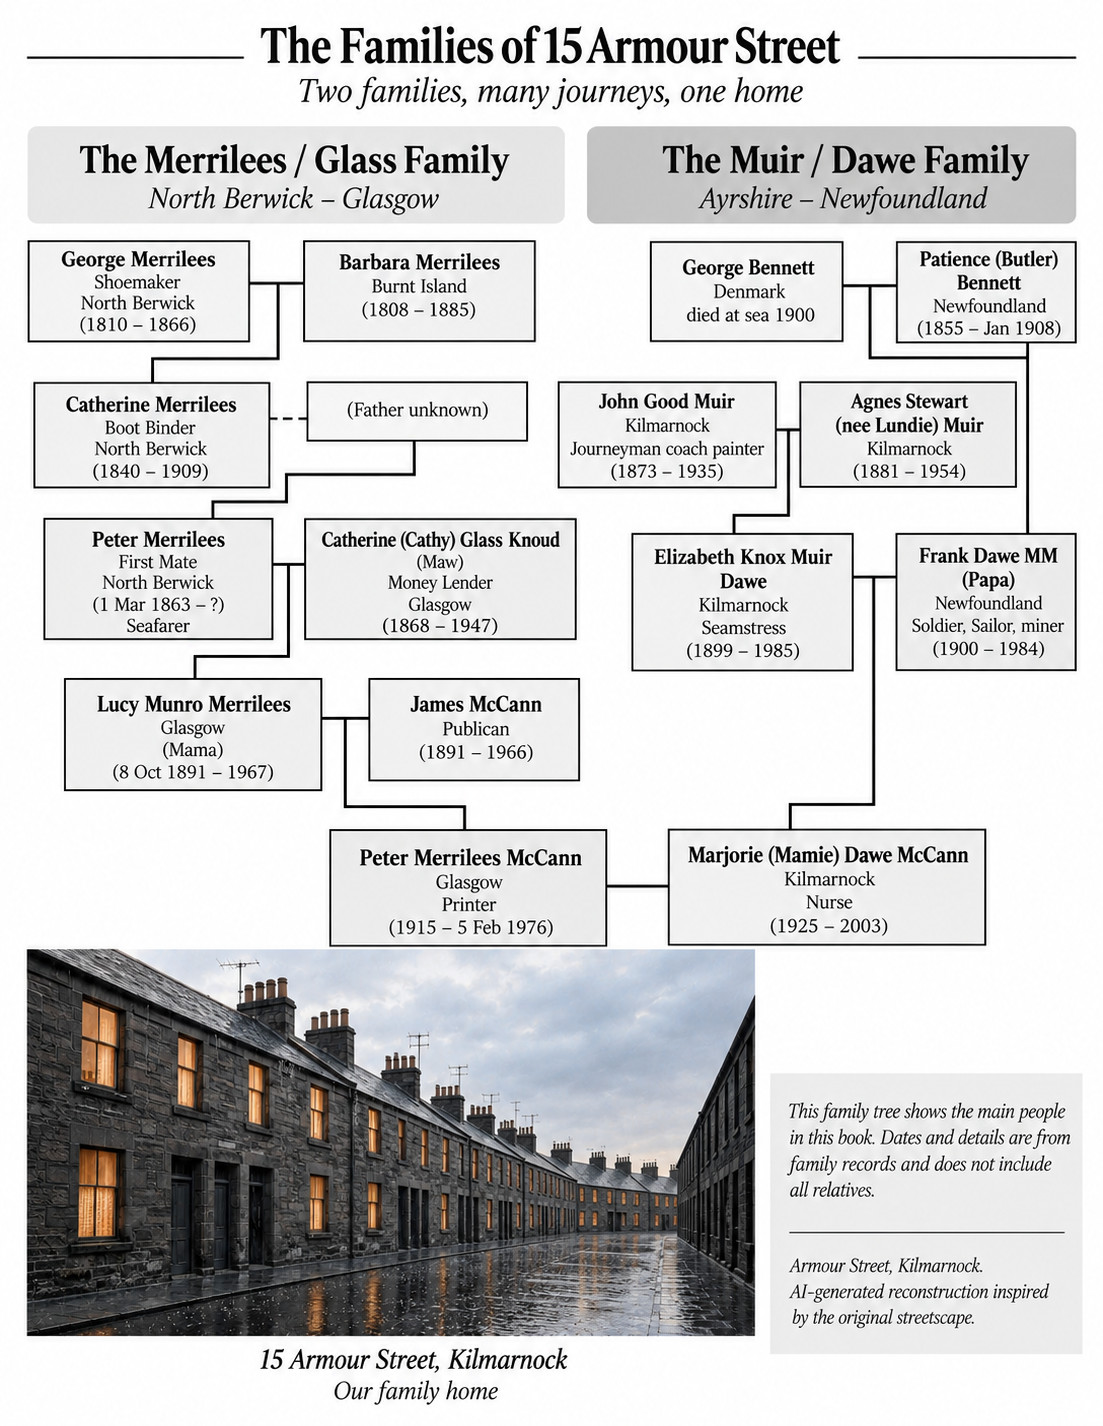
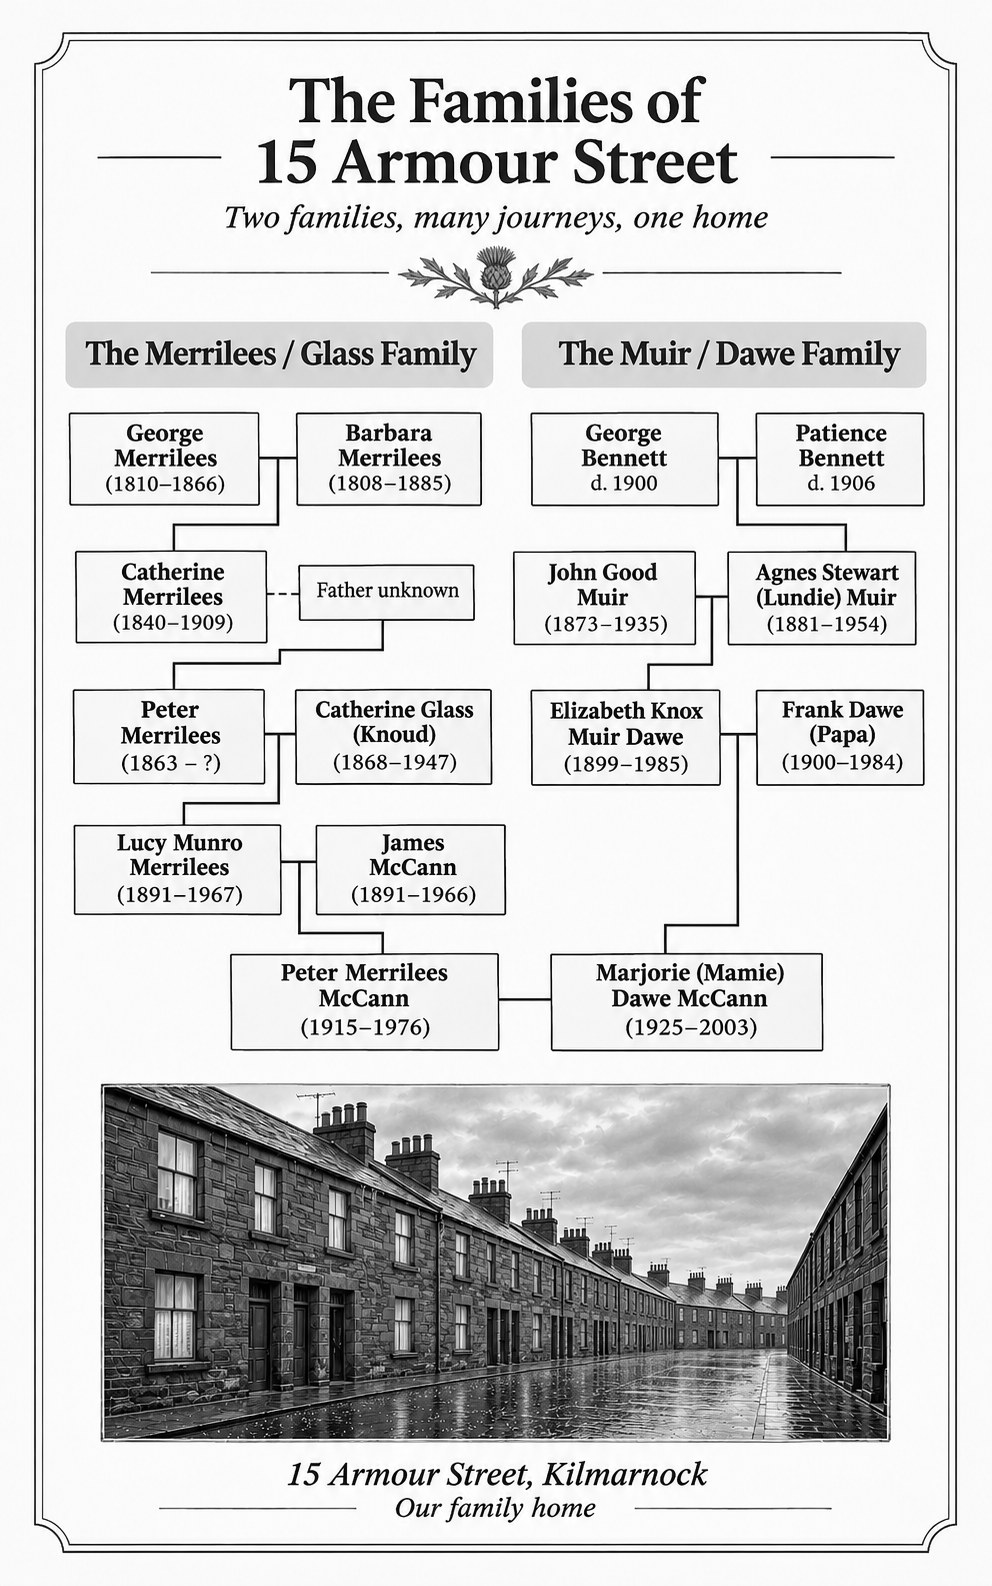
Task 3: Research Journey: replace family tree graphic with Julie's corrected copy and rebuild its text list (Pass 20)

diff --git a/research-journey/index.html b/research-journey/index.html
@@ -56,30 +56,30 @@
 
         <!-- [ Julie to supply short intro for the Research Journey page ] -->
 
-        <!-- EDIT HERE: The Families of 15 Armour Street (Julie's family tree graphic, supplied 7 Nov 2026; the graphic carries its own title, so there is no heading here) -->
-        <!-- [ Julie to confirm: this version shows Elizabeth Knox Muir Dawe as 1899–1985 and Frank Dawe MM as 1900–1984; her earlier tree showed 1987 for both. The list below follows this graphic. If the graphic changes, update the list too. ] -->
+        <!-- EDIT HERE: The Families of 15 Armour Street (the graphic was replaced on 19 Nov 2026 with Julie's corrected copy dated 18 Nov 2026; the graphic carries its own title, so there is no heading here). The list below follows the graphic. If the graphic changes, update the list too. -->
+        <!-- [ Julie to confirm: in the new graphic the connector below George and Patience Bennett appears to run down to Agnes Stewart (Lundie) Muir, not to Frank Dawe (the old tree placed Frank below the Bennetts). Patience's death is now 1906 (the old tree said January 1908). The list above makes no claim about who is whose child. ] -->
         <figure class="record-figure">
           <a class="photo-frame photo-frame-img photo-frame-record" href="../assets/images/research/families-of-15-armour-street-large.jpg" aria-label="View larger family tree image">
-            <img src="../assets/images/research/families-of-15-armour-street.jpg" alt="Family tree titled The Families of 15 Armour Street: two families, many journeys, one home. The Merrilees and Glass family of North Berwick and Glasgow is on the left and the Muir and Dawe family of Ayrshire and Newfoundland on the right, joining at the bottom in Peter Merrilees McCann and Marjorie Dawe McCann. A reconstructed picture of the street is underneath. A text version follows." width="800" height="1034" loading="lazy" decoding="async">
+            <img src="../assets/images/research/families-of-15-armour-street.jpg" alt="Family tree titled The Families of 15 Armour Street: two families, many journeys, one home. The Merrilees / Glass Family is on the left and the Muir / Dawe Family is on the right, joining at the bottom in Peter Merrilees McCann and Marjorie Dawe McCann. A reconstructed picture of 15 Armour Street, Kilmarnock, our family home, is underneath. A text version follows." width="800" height="1279" loading="lazy" decoding="async">
           </a>
           <p class="photo-credit"><em>Select the image to enlarge it.</em></p>
           <details class="tree-list">
             <summary>Read this as a list</summary>
-            <p><strong>The Merrilees / Glass Family, North Berwick – Glasgow</strong></p>
+            <p><strong>The Merrilees / Glass Family</strong></p>
             <ul>
-              <li>George Merrilees, shoemaker, North Berwick (1810 – 1866), and Barbara Merrilees, Burnt Island (1808 – 1885).</li>
-              <li>Their daughter Catherine Merrilees, boot binder, North Berwick (1840 – 1909). Her son's father is shown as unknown.</li>
-              <li>Her son Peter Merrilees, first mate and seafarer, North Berwick (born 1 March 1863), and Catherine (Cathy) Glass Knoud, "Maw", money lender, Glasgow (1868 – 1947).</li>
-              <li>Their daughter Lucy Munro Merrilees, "Mama", Glasgow (8 October 1891 – 1967), and James McCann, publican (1891 – 1966).</li>
-              <li>Their son Peter Merrilees McCann, printer, Glasgow (1915 – 5 February 1976).</li>
+              <li>George Merrilees (1810 – 1866) and Barbara Merrilees (1808 – 1885).</li>
+              <li>Their daughter Catherine Merrilees (1840 – 1909). Her son's father is shown as unknown.</li>
+              <li>Her son Peter Merrilees (born 1863, no death year shown) and Catherine Glass (Knoud) (1868 – 1947).</li>
+              <li>Their daughter Lucy Munro Merrilees (1891 – 1967) and James McCann (1891 – 1966).</li>
+              <li>Their son Peter Merrilees McCann (1915 – 1976).</li>
             </ul>
-            <p><strong>The Muir / Dawe Family, Ayrshire – Newfoundland</strong></p>
+            <p><strong>The Muir / Dawe Family</strong></p>
             <ul>
-              <li>George Bennett, Denmark, died at sea in 1900, and Patience (Butler) Bennett, Newfoundland (1855 – January 1908).</li>
-              <li>John Good Muir, journeyman coach painter, Kilmarnock (1873 – 1935), and Agnes Stewart (née Lundie) Muir, Kilmarnock (1881 – 1954).</li>
-              <li>Their daughter Elizabeth Knox Muir Dawe, seamstress, Kilmarnock (1899 – 1985).</li>
-              <li>Frank Dawe MM, "Papa", Newfoundland, soldier, sailor, miner (1900 – 1984), shown below George and Patience Bennett and alongside Elizabeth.</li>
-              <li>Their daughter Marjorie (Mamie) Dawe McCann, Kilmarnock, nurse (1925 – 2003), shown alongside Peter Merrilees McCann.</li>
+              <li>George Bennett (died 1900) and Patience Bennett (died 1906).</li>
+              <li>John Good Muir (1873 – 1935) and Agnes Stewart (Lundie) Muir (1881 – 1954).</li>
+              <li>Their daughter Elizabeth Knox Muir Dawe (1899 – 1985).</li>
+              <li>Frank Dawe (Papa) (1900 – 1984), shown alongside Elizabeth.</li>
+              <li>Their daughter Marjorie (Mamie) Dawe McCann (1925 – 2003), shown alongside Peter Merrilees McCann.</li>
             </ul>
             <p>15 Armour Street, Kilmarnock: our family home. The picture of the street is an AI-generated reconstruction inspired by the original streetscape. The tree shows the main people in the book. Dates and details are from family records and it does not include all relatives.</p>
           </details>

diff --git a/README.md b/README.md
@@ -29,7 +29,7 @@ The photographs on From the Scullery have alt text and, apart from three labels 
 
 A Thread Through the Generations and About the Storyteller are also Julie's own words (`A_Thread_Through_the_Generations.txt`, `Personal bio.txt`). The one wording fix on the Threads page is "form the Shetlands" corrected to "from the Shetlands". Her sentence about the pink baby set (made by her sister) is in "Made to be worn and loved". Each photo there is a plain link to its `-large.jpg` twin (no JavaScript); the only visible line under any photo is the Singer licence credit. Later additions: the sewing basket photograph (`sewing-basket-open-lid.jpg`, small, left of the text under the Singer note, no caption) and `cream-baby-shawl-and-set.jpg`, now the **only** shawl photograph on the page (on 4 Nov 2026 the two pink-cast photos of the same set were removed, and their files deleted, to leave a single cream one; Julie's sentence "The pink baby shawl…" is unchanged and still stands without a matching pink photo). The wedding-ring shawl photo marker is gone: she has no photo of her own, and the Shetland link stands in.
 
-The Research Journey is Julie's own wording (`Finding_Papa_in_the_Records.txt`, `Following_the_Merrilees_Family.txt`, `Carradale_First_Mate_and_Artist_Patrick_FAMILY_CONNECTION.txt`, 1 Nov 2026), in two sections: Finding Papa in the Records; Following the Merrilees Family. (The Carradale section was removed at Julie's request on 4 Nov 2026; the Carradale now lives on the Sailing Stories page.) Her notes to Patrick, permissions notes, design suggestions, checklists and editorial notes are not published. The Kirk Session passage (1 March 1863) is Julie's own text with her source line (Pass 19); the image of the minute was removed at her request (18 Nov 2026) and replaced by that text. On 19 Nov 2026 (Pass 20) that passage was replaced by Julie's longer single paragraph (her words verbatim, with the source line kept as its own italic line beneath); the next section, "Called before the Kirk Session", was deliberately left untouched pending her answer (see the hidden marker). The casualty register (HMS Snapdragon, December 1942) is now on the page (Pass 15): a two-page spread with Snapdragon on the left-hand page, shown whole (never cropped) with Julie's caption, her credit "The National Archives (UK), ADM 358/4183. Reproduced by permission of The National Archives.", and an enlarge link. Her line "image will be added once reproduction arrangements are confirmed" was dropped because it no longer applies. The page deliberately has no intro line yet (hidden marker). Julie's family tree graphic, "The Families of 15 Armour Street" (7 Nov 2026), opens the page. The poorhouse is not described as burned down: the corrected entry records injuries from burning, nothing more.
+The Research Journey is Julie's own wording (`Finding_Papa_in_the_Records.txt`, `Following_the_Merrilees_Family.txt`, `Carradale_First_Mate_and_Artist_Patrick_FAMILY_CONNECTION.txt`, 1 Nov 2026), in two sections: Finding Papa in the Records; Following the Merrilees Family. (The Carradale section was removed at Julie's request on 4 Nov 2026; the Carradale now lives on the Sailing Stories page.) Her notes to Patrick, permissions notes, design suggestions, checklists and editorial notes are not published. The Kirk Session passage (1 March 1863) is Julie's own text with her source line (Pass 19); the image of the minute was removed at her request (18 Nov 2026) and replaced by that text. On 19 Nov 2026 (Pass 20) that passage was replaced by Julie's longer single paragraph (her words verbatim, with the source line kept as its own italic line beneath); the next section, "Called before the Kirk Session", was deliberately left untouched pending her answer (see the hidden marker). The casualty register (HMS Snapdragon, December 1942) is now on the page (Pass 15): a two-page spread with Snapdragon on the left-hand page, shown whole (never cropped) with Julie's caption, her credit "The National Archives (UK), ADM 358/4183. Reproduced by permission of The National Archives.", and an enlarge link. Her line "image will be added once reproduction arrangements are confirmed" was dropped because it no longer applies. The page deliberately has no intro line yet (hidden marker). Julie's family tree graphic, "The Families of 15 Armour Street" (first supplied 7 Nov 2026; replaced 19 Nov 2026), opens the page. The poorhouse is not described as burned down: the corrected entry records injuries from burning, nothing more.
 
 Sailing Stories (`sailing-stories/index.html`) holds three stories, each a `<section class="research-section">` with its own `aria-labelledby` id, in this order: "The Clipper Routes" (first, at Julie's request; her email of 8 Nov 2026), "The Sailor and the Artist" (4 Nov 2026), and "Two Ships, One U-Boat" / The Ainsdale and the Azul (her newer brief, 9 Nov 2026). Julie confirmed on 9 Nov 2026 that the Ainsdale story stays **after** Sailor and Artist. The Clipper Routes uses the Carradale photograph again (same credit) and the Bermuda painting, "The barque Bermuda. Painting by John Henry Mohrmann (1857–1916). Public domain." The Ainsdale story keeps Julie's wording, with two corrections she supplied on 9 Nov 2026: "SS Ikalis" (not HMS; the passenger return marks her "SS", a merchant steamship) and Peter Merrilees as a "Seaman" (the crew list, entry 43, shows a ditto mark under "Seaman"). Its four National Archives images carry Julie's supplied credit lines exactly ("The National Archives, BT 165/1585. Reproduced under licence." for the log book cover, ports of call page and crew list; "The National Archives, UK. Reproduced under licence" for the Ikalis passenger record, BT26 series). The licence invoice number is deliberately **not** on any page or in this repository. The colourised Carradale photograph carries Frank Hellsten's own accreditation label, used with his permission (5 Nov 2026); the crew list carries the State Records NSW source line; a Nielsen source line (the English summary of his Akvarellen article, linked) closes the "A voyage through an artist's eyes" section. It ends with "The voyage in pictures" (Julie's 6 Nov 2026 wording): four paragraphs saying five of Gregory Robinson's original drawings, held by the Royal Museums Greenwich, will be added when the museum supplies them. Under them is a hidden gallery slot (an HTML comment holding a ready-to-copy `figure.record-figure` block, one per drawing; nothing shows on the page). Credit wording and any enlarge link are to be confirmed with Julie. The page reuses the Research Journey's styles; the closing link goes to the Book page.
 
@@ -46,7 +46,7 @@ The linked record images (the five National Records of Scotland scans and the ca
 | `[ Julie to supply short intro for the Research Journey page ]` | Research Journey, top (HTML comment) | A one-line intro, if she wants one |
 | Bermuda painting | Sailing Stories, Clipper Routes | The file is only 816px wide, so there is no enlarge link; a larger `IMG_0149.jpeg` may be in her 8 Nov 2026 email. The painting shows three masts, though the handoff called it four-masted, so the alt text describes what is visible |
 | `[ Julie to confirm: her new Kirk Session paragraph (Pass 20) ... ]` | Research Journey, above "Called before the Kirk Session" | Her new Kirk Session paragraph now covers the definitions, confession and rebuke, and the "no entry for Catherine" line. Does she want that following section trimmed or removed? (Patrick will ask her.) |
-| `[ Julie to confirm: tree death years ]` | Research Journey, tree comment | This file shows 1985 and 1984 for Elizabeth Knox Muir Dawe and Frank Dawe MM; her earlier tree showed 1987 for both. Also confirm Peter Merrilees McCann's date, shown here as 5 Feb 1976 |
+| `[ Julie to confirm: ... connector below George and Patience Bennett ... ]` | Research Journey, tree comment | In the new graphic (Pass 20) the connector below George and Patience Bennett appears to run down to Agnes Stewart (Lundie) Muir, not to Frank Dawe (the old tree placed Frank below the Bennetts). Patience's death is now 1906 (the old tree said January 1908). The list makes no claim about who is whose child. The old Elizabeth/Frank 1987 question is closed: Julie's final copy still shows 1985 and 1984 |
 | Held Scullery labels (five hidden comments) | The Ways of Home (Scullery part), above each photo | Whether her granddaughters' first names may be public (nameless options are in each comment) |
 | Beyond the Book tense | The Book, "Beyond the Book" (HTML comment) | She asked about present tense; "will" kept until Patrick confirms with her |
 | Burns epigraph | Home only | Not an open item: Julie asked for the quotation to live on Home only ("where it has real significance"). A comment on The Book marks where it was removed |
@@ -82,7 +82,7 @@ The Ways of Home, Scullery part: `assets/images/scullery/` holds 18 photographs 
 
 Sailing Stories: `assets/images/sailing/` holds the colourised Carradale photograph (`carradale-four-masted-barque-colourised.jpg`, 1225x1600, shown whole so the "Color by Frank Hellsten" mark stays on it) the 1903 Sydney crew list (`carradale-1903-sydney-inward-crew-list.jpg`, 1600px wide, linking to a 3200px `-large.jpg`), the Bermuda painting (`bermuda-four-masted-barque-painting.jpg`, 816x471, its only size) and the four Ainsdale records (`ainsdale-log-book-cover-1917`, `ainsdale-log-book-ports-of-call`, `ainsdale-crew-list-entry-43`, each 1600px long edge with a 3200px `-large` twin; `ikalis-incoming-passengers-liverpool-1917`, cropped from Julie's full spread to the Ikalis return page only, with a `-large` twin at the crop's native size). All are metadata-stripped.
 
-The Research Journey: `assets/images/research/` holds five National Records of Scotland record scans (birth 1863, marriage 1830, two deaths, corrected entry 1885), each with a `-large.jpg` twin that the page links to, the HMS Snapdragon casualty register (`hms-snapdragon-casualty-register-1942.jpg`, 1600px wide, linking to a 3200px `-large.jpg`; shown as the whole two-page spread, uncropped), plus the small HMS Snapdragon photograph (473x248, no large twin, shown at natural size). **Never crop or cover the record images**: the NRS "Crown copyright… Image was generated at…" header is part of each one, so they use a plain frame (`photo-frame-record`, no photo corners, no tilt). Each has its credit line directly beneath, built from the header printed on the image. The Snapdragon credit is "HMS Snapdragon at Bandar Shapur, Iran, August 1941. Australian War Memorial, photograph 134400. Public domain." A single Open Government Licence v3.0 line sits in the Sources part and is worded "NRS record images reused under…" so it does not claim to cover the National Archives register. The family tree graphic is `families-of-15-armour-street.jpg` (800x1034, linking to a 1103x1426 `-large.jpg`, which is the size Julie supplied). It sits at the top of the page with no heading of its own (the graphic carries its title) and has the same "Select the image to enlarge it." line, plus a collapsed "Read this as a list" (`<details>`) giving the same content as text. **If the graphic is ever replaced, update that list to match.** No children are named anywhere on the page.
+The Research Journey: `assets/images/research/` holds five National Records of Scotland record scans (birth 1863, marriage 1830, two deaths, corrected entry 1885), each with a `-large.jpg` twin that the page links to, the HMS Snapdragon casualty register (`hms-snapdragon-casualty-register-1942.jpg`, 1600px wide, linking to a 3200px `-large.jpg`; shown as the whole two-page spread, uncropped), plus the small HMS Snapdragon photograph (473x248, no large twin, shown at natural size). **Never crop or cover the record images**: the NRS "Crown copyright… Image was generated at…" header is part of each one, so they use a plain frame (`photo-frame-record`, no photo corners, no tilt). Each has its credit line directly beneath, built from the header printed on the image. The Snapdragon credit is "HMS Snapdragon at Bandar Shapur, Iran, August 1941. Australian War Memorial, photograph 134400. Public domain." A single Open Government Licence v3.0 line sits in the Sources part and is worded "NRS record images reused under…" so it does not claim to cover the National Archives register. The family tree graphic is `families-of-15-armour-street.jpg` (800x1279, linking to a 992x1586 `-large.jpg`, which is the size Julie supplied). It was replaced on 19 Nov 2026 (Pass 20) with Julie's corrected copy dated 18 Nov 2026 (`Hameward_Bend_Family_Tree_Corrected_18Nov2026.pdf`). The new graphic is much plainer than the old one: names and years only, with no occupations, places or nicknames other than "(Papa)", "(Mamie)" and "(Knoud)", so the "Read this as a list" text was rewritten to match and now drops the occupations and places the old tree carried. Both JPEGs had a C2PA content-credentials block (APP11) in the prepared files; it was stripped losslessly from the repo copies, and a byte scan for `Exif`, `c2pa`, `jumb` and `XMP` now finds none. It sits at the top of the page with no heading of its own (the graphic carries its title) and has the same "Select the image to enlarge it." line, plus a collapsed "Read this as a list" (`<details>`) giving the same content as text. **If the graphic is ever replaced, update that list to match.** No children are named anywhere on the page.
 
 The Ways of Home, Threads part: `assets/images/knitting/` holds the knitting and sewing photographs, each with a `-large.jpg` twin (1350x1800 or 1800x1350) that the small version links to, plus the Singer museum photograph (no large twin). The one baby set photo is `cream-baby-shawl-and-set.jpg` (with its `-large.jpg` twin); since 7 Nov 2026 it is Mhairi's own photograph (it replaced the earlier image under the same name), with Julie's label "A gift from Mhairi for her grandniece." beneath it. The two pink-cast photos of the same set were removed on 4 Nov 2026 and their files deleted. `pink-sock-in-progress.jpg` (750x765, with its `-large.jpg` twin) is a cropped replacement from 7 Nov 2026; the earlier one showed Julie's foot. The new `paragon-knitting-book-101-cover.jpg` (with `-large.jpg` twin) is in use in "Made to be worn and loved", with the visible label "Paragon Knitting Book No. 101, from my own collection". Also in use: `sewing-basket-open-lid.jpg` (with its twin). About the Storyteller: `assets/images/storyteller/julie-portrait.jpg` (1000x971, the warm portrait Julie chose). All are metadata-stripped.
 
